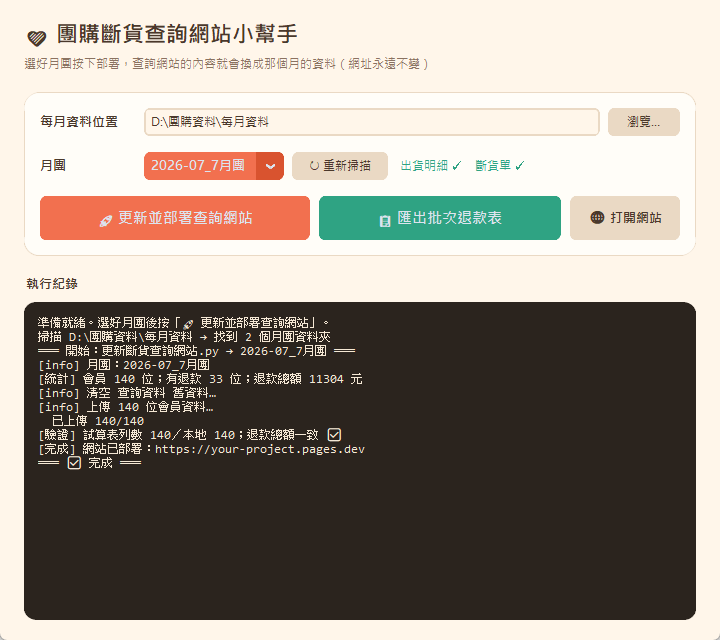
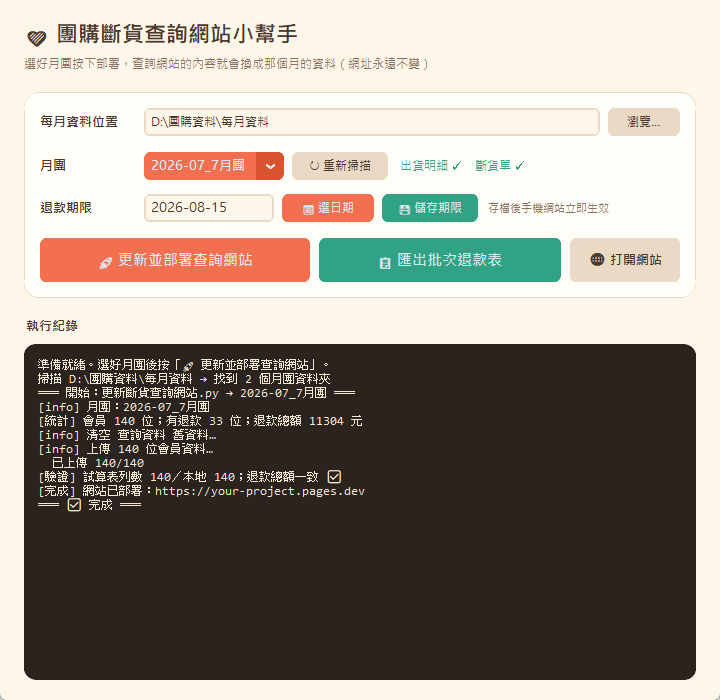
groupbuy-refund-checker：小幫手新增退款期限月曆選擇器，截圖更新

Changed region(s): [[0.0306, 0.0312, 0.9472, 0.4062], [0.0306, 0.4375, 0.9778, 0.75]]

diff --git a/groupbuy-refund-checker/斷貨查詢小幫手.py b/groupbuy-refund-checker/斷貨查詢小幫手.py
@@ -10,6 +10,8 @@
 啟動：  python 斷貨查詢小幫手.py
 截圖：  python 斷貨查詢小幫手.py --screenshot 輸出.png   （作品集展示用）
 """
+import calendar
+import datetime
 import glob
 import json
 import os
@@ -47,6 +49,108 @@ def load_cfg():
         return {}
 
 
+def load_upd():
+    """載入 更新斷貨查詢網站.py 模組，共用它的 run_gws（試算表讀寫）。"""
+    import importlib.util
+    spec = importlib.util.spec_from_file_location("_upd", os.path.join(BASE, "更新斷貨查詢網站.py"))
+    m = importlib.util.module_from_spec(spec)
+    spec.loader.exec_module(m)
+    return m
+
+
+def parse_date(text):
+    """接受 2026-09-10 / 2026/9/10 / 9/10（補今年）等寫法，回傳 date 或 None。"""
+    t = str(text or "").strip().replace("－", "-").replace("．", ".")
+    for fmt in ("%Y-%m-%d", "%Y/%m/%d", "%Y.%m.%d"):
+        try:
+            return datetime.datetime.strptime(t, fmt).date()
+        except ValueError:
+            pass
+    m = re.match(r"^(\d{1,2})[/\-.](\d{1,2})$", t)
+    if m:
+        today = datetime.date.today()
+        try:
+            d = datetime.date(today.year, int(m.group(1)), int(m.group(2)))
+            return d if d >= today else datetime.date(today.year + 1, int(m.group(1)), int(m.group(2)))
+        except ValueError:
+            return None
+    return None
+
+
+class CalendarPopup(ctk.CTkToplevel):
+    """點選式月曆（大按鈕，好按）。選好日期回呼 on_pick(date)。"""
+
+    def __init__(self, master, init_date=None, on_pick=None):
+        super().__init__(master)
+        self.title("選退款期限")
+        self.configure(fg_color=PAPER)
+        self.resizable(False, False)
+        self.on_pick = on_pick
+        d = init_date or datetime.date.today()
+        self.year, self.month = d.year, d.month
+        self.transient(master)
+        self.grab_set()
+        # 開在主視窗中間
+        self.update_idletasks()
+        x = master.winfo_rootx() + master.winfo_width() // 2 - 190
+        y = master.winfo_rooty() + 160
+        self.geometry(f"380x420+{max(x, 0)}+{max(y, 0)}")
+        self._draw()
+
+    def _draw(self):
+        for w in self.winfo_children():
+            w.destroy()
+        head = ctk.CTkFrame(self, fg_color="transparent")
+        head.pack(fill="x", padx=14, pady=(14, 6))
+        ctk.CTkButton(head, text="◀", width=44, height=40, command=lambda: self._move(-1),
+                      fg_color=LINE, hover_color="#DCC5A8", text_color=INK,
+                      font=ctk.CTkFont("Microsoft JhengHei UI", 16, "bold")).pack(side="left")
+        ctk.CTkLabel(head, text=f"{self.year} 年 {self.month} 月",
+                     font=ctk.CTkFont("Microsoft JhengHei UI", 18, "bold"),
+                     text_color=INK).pack(side="left", expand=True)
+        ctk.CTkButton(head, text="▶", width=44, height=40, command=lambda: self._move(1),
+                      fg_color=LINE, hover_color="#DCC5A8", text_color=INK,
+                      font=ctk.CTkFont("Microsoft JhengHei UI", 16, "bold")).pack(side="right")
+
+        grid = ctk.CTkFrame(self, fg_color="transparent")
+        grid.pack(padx=14, pady=(0, 14))
+        for i, wd in enumerate(["一", "二", "三", "四", "五", "六", "日"]):
+            ctk.CTkLabel(grid, text=wd, width=46,
+                         font=ctk.CTkFont("Microsoft JhengHei UI", 12, "bold"),
+                         text_color=(RED if i >= 5 else INK_SOFT)).grid(row=0, column=i, pady=(0, 4))
+        today = datetime.date.today()
+        for r, week in enumerate(calendar.Calendar().monthdayscalendar(self.year, self.month), start=1):
+            for c, day in enumerate(week):
+                if day == 0:
+                    continue
+                d = datetime.date(self.year, self.month, day)
+                is_today = d == today
+                btn = ctk.CTkButton(
+                    grid, text=str(day), width=46, height=44,
+                    command=lambda dd=d: self._pick(dd),
+                    fg_color=(CORAL if is_today else CREAM),
+                    text_color=("#FFFFFF" if is_today else INK),
+                    hover_color=CORAL_DEEP,
+                    border_width=0 if is_today else 1, border_color=LINE,
+                    font=ctk.CTkFont("Microsoft JhengHei UI", 14, "bold" if is_today else "normal"))
+                btn.grid(row=r, column=c, padx=2, pady=2)
+
+    def _move(self, step):
+        m = self.month + step
+        if m < 1:
+            self.year, self.month = self.year - 1, 12
+        elif m > 12:
+            self.year, self.month = self.year + 1, 1
+        else:
+            self.month = m
+        self._draw()
+
+    def _pick(self, d):
+        if self.on_pick:
+            self.on_pick(d)
+        self.destroy()
+
+
 def scan_months(monthly_dir):
     """掃描月團資料夾，回傳 [(名稱, 有出貨明細, 有斷貨單)]，新的在前。"""
     out = []
@@ -62,19 +166,22 @@ def scan_months(monthly_dir):
 
 
 class App(ctk.CTk):
-    def __init__(self):
+    def __init__(self, demo=False):
         super().__init__()
         self.title("團購斷貨查詢網站小幫手")
-        self.geometry("720x640")
-        self.minsize(640, 560)
+        self.geometry("720x700")
+        self.minsize(640, 620)
         self.configure(fg_color=CREAM)
         self.cfg = load_cfg()
         self.months = []
         self.running = False
         self.log_q = queue.Queue()
+        self._upd = None
         self._build()
         self.rescan()
         self.after(100, self._drain_log)
+        if not demo:
+            threading.Thread(target=self._load_deadline, daemon=True).start()
 
     # ── 版面 ──
     def _build(self):
@@ -126,6 +233,27 @@ class App(ctk.CTk):
         self.status_lbl = ctk.CTkLabel(row2, text="", font=ctk.CTkFont("Microsoft JhengHei UI", 12),
                                        text_color=INK_SOFT)
         self.status_lbl.pack(side="left", padx=(12, 0))
+
+        row3 = ctk.CTkFrame(card, fg_color="transparent")
+        row3.pack(fill="x", padx=16, pady=(8, 6))
+        ctk.CTkLabel(row3, text="退款期限", width=96, anchor="w",
+                     font=ctk.CTkFont("Microsoft JhengHei UI", 13, "bold"),
+                     text_color=INK).pack(side="left")
+        self.deadline_var = ctk.StringVar(value="")
+        self.deadline_entry = ctk.CTkEntry(row3, textvariable=self.deadline_var, width=130,
+                                           placeholder_text="讀取中…",
+                                           font=ctk.CTkFont("Microsoft JhengHei UI", 13),
+                                           fg_color=CREAM, border_color=LINE, text_color=INK)
+        self.deadline_entry.pack(side="left", padx=(8, 8))
+        ctk.CTkButton(row3, text="📅 選日期", width=92, command=self.pick_deadline,
+                      fg_color=CORAL, hover_color=CORAL_DEEP,
+                      font=ctk.CTkFont("Microsoft JhengHei UI", 12, "bold")).pack(side="left", padx=(0, 8))
+        self.btn_save_dl = ctk.CTkButton(row3, text="💾 儲存期限", width=96, command=self.save_deadline,
+                                         fg_color=MINT, hover_color="#22715B",
+                                         font=ctk.CTkFont("Microsoft JhengHei UI", 12, "bold"))
+        self.btn_save_dl.pack(side="left")
+        ctk.CTkLabel(row3, text="存檔後手機網站立即生效", font=ctk.CTkFont("Microsoft JhengHei UI", 11),
+                     text_color=INK_SOFT).pack(side="left", padx=(10, 0))
 
         rowb = ctk.CTkFrame(card, fg_color="transparent")
         rowb.pack(fill="x", padx=16, pady=(10, 16))
@@ -182,6 +310,61 @@ class App(ctk.CTk):
         ok = cur[1]
         self.status_lbl.configure(text="　".join(parts), text_color=(MINT if ok else RED))
 
+    # ── 退款期限 ──
+    def _get_upd(self):
+        if self._upd is None:
+            self._upd = load_upd()
+        return self._upd
+
+    def _load_deadline(self):
+        """啟動時從試算表「設定」B3 讀目前的退款期限，填進欄位。"""
+        try:
+            upd = self._get_upd()
+            cfg = load_cfg()
+            out = upd.run_gws(["sheets", "spreadsheets", "values", "get"],
+                              params={"spreadsheetId": cfg["spreadsheetId"],
+                                      "range": f"{cfg.get('設定分頁', '設定')}!B3"},
+                              allow_fail=True)
+            if out:
+                data = json.loads(out[out.index("{"):])
+                val = (data.get("values") or [[""]])[0][0]
+                self.deadline_var.set(str(val))
+                self.log_q.put(f"目前設定的退款期限：{val or '（未設定）'}")
+        except Exception as e:
+            self.log_q.put(f"[提醒] 讀不到目前的退款期限（{e}），可直接填新的再按儲存。")
+
+    def pick_deadline(self):
+        CalendarPopup(self, init_date=parse_date(self.deadline_var.get()),
+                      on_pick=lambda d: self.deadline_var.set(d.strftime("%Y-%m-%d")))
+
+    def save_deadline(self, silent=False):
+        d = parse_date(self.deadline_var.get())
+        if not d:
+            self._log("[錯誤] 退款期限看不懂，請用「📅 選日期」點選，或填 2026-09-10 這種格式。")
+            return
+        if d < datetime.date.today():
+            self._log(f"[錯誤] 退款期限 {d} 已經是過去的日期了，請再確認。")
+            return
+        self.btn_save_dl.configure(state="disabled", text="儲存中…")
+        threading.Thread(target=self._save_deadline_worker, args=(d,), daemon=True).start()
+
+    def _save_deadline_worker(self, d):
+        try:
+            upd = self._get_upd()
+            cfg = load_cfg()
+            # 用 USER_ENTERED 寫 2026/09/10 → 試算表存成真正的日期，網站會顯示「9月10日」
+            upd.run_gws(["sheets", "spreadsheets", "values", "update"],
+                        params={"spreadsheetId": cfg["spreadsheetId"],
+                                "range": f"{cfg.get('設定分頁', '設定')}!B3",
+                                "valueInputOption": "USER_ENTERED"},
+                        body={"values": [[d.strftime("%Y/%m/%d")]]})
+            self.log_q.put(f"✅ 退款期限已存：{d.year}年{d.month}月{d.day}日（手機網站的紅字提醒立即生效）")
+        except SystemExit:
+            self.log_q.put("[錯誤] 退款期限存檔失敗，請確認網路後再按一次「💾 儲存期限」。")
+        except Exception as e:
+            self.log_q.put(f"[錯誤] 退款期限存檔失敗：{e}")
+        self.log_q.put("__DL_DONE__")
+
     def open_site(self):
         url = load_cfg().get("pages_url") or ""
         if url:
@@ -201,6 +384,10 @@ class App(ctk.CTk):
         if kind == "deploy" and not cur[1]:
             self._log(f"[錯誤] {month} 還沒有出貨明細（請先跑步驟5），無法部署。")
             return
+        if kind == "deploy":
+            d = parse_date(self.deadline_var.get())
+            if not d or d < datetime.date.today():
+                self._log("[提醒] 退款期限還沒設定（或已過期）——部署照常進行，記得用「📅 選日期」選好後按「💾 儲存期限」。")
         script = "更新斷貨查詢網站.py" if kind == "deploy" else "匯出批次退款表.py"
         month_path = os.path.join(self.path_var.get(), month)
         self.running = True
@@ -232,6 +419,8 @@ class App(ctk.CTk):
                     self.running = False
                     self.btn_deploy.configure(state="normal")
                     self.btn_export.configure(state="normal")
+                elif line == "__DL_DONE__":
+                    self.btn_save_dl.configure(state="normal", text="💾 儲存期限")
                 else:
                     self._log(line)
         except queue.Empty:
@@ -247,13 +436,13 @@ class App(ctk.CTk):
 
 def screenshot_mode(out_path):
     """作品集用：開視窗（填入示範資料）→ 存一張截圖 → 自動關閉。"""
-    app = App()
-    # 示範狀態：不顯示真實路徑與資料
+    app = App(demo=True)
     app.path_var.set(r"D:\團購資料\每月資料")
     app.months = [("2026-07_7月團", True, True), ("2026-06_6月團", True, True)]
     app.month_menu.configure(values=[m[0] for m in app.months])
     app.month_var.set("2026-07_7月團")
     app.update_status()
+    app.deadline_var.set("2026-08-15")
     app.log.configure(state="normal"); app.log.delete("1.0", "end"); app.log.configure(state="disabled")
     app._log("準備就緒。選好月團後按「🚀 更新並部署查詢網站」。")
     app._log("掃描 D:\團購資料\每月資料 → 找到 2 個月團資料夾")
